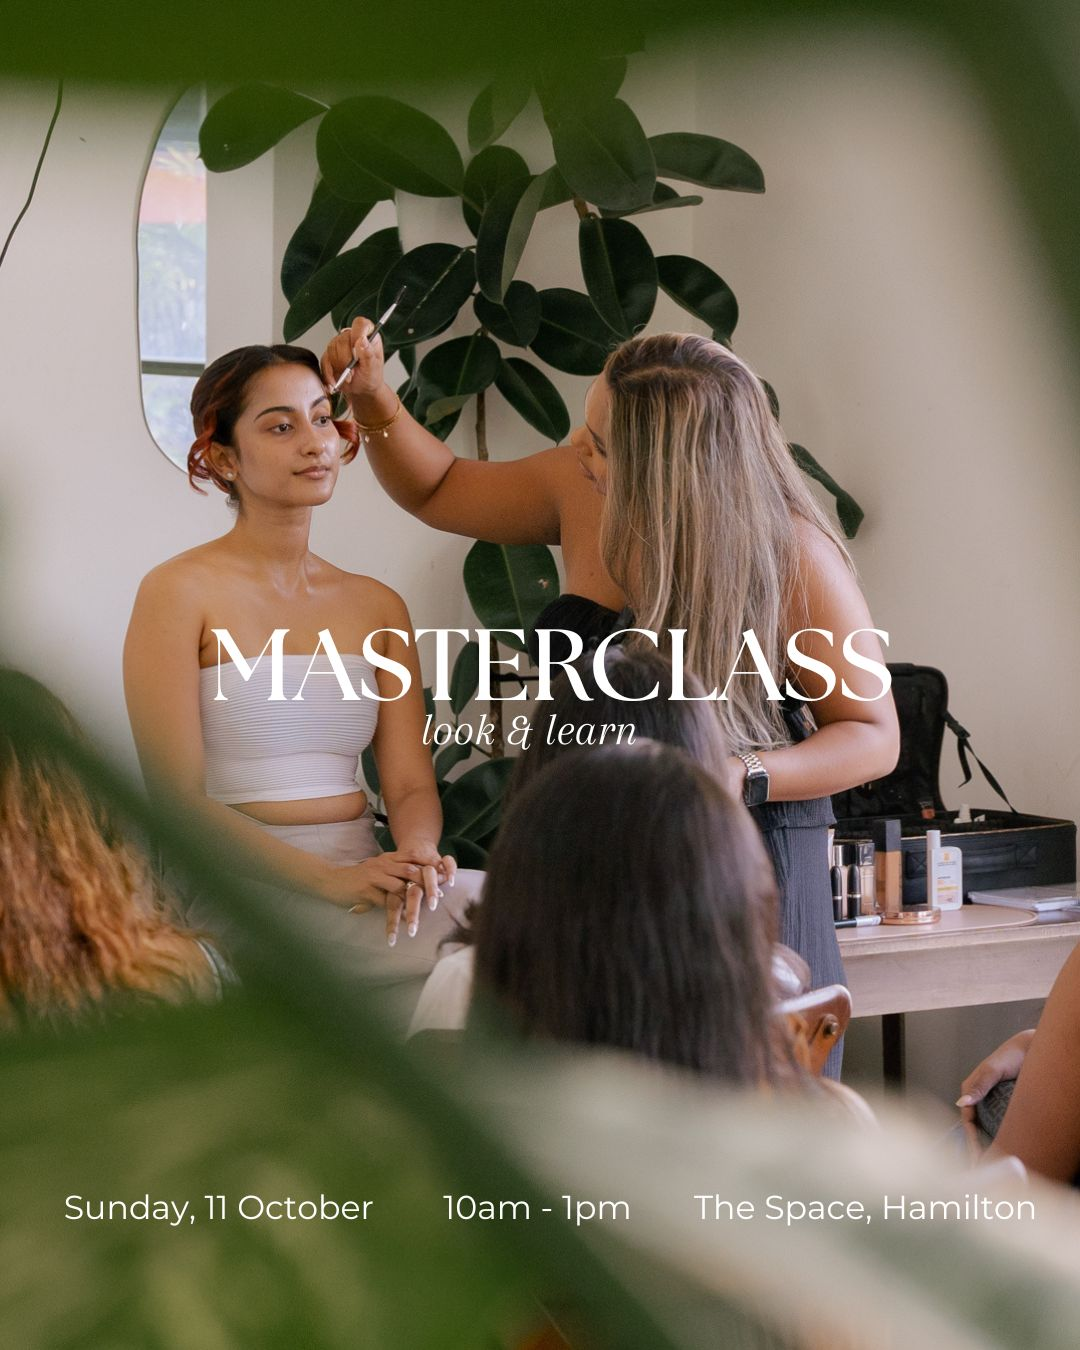
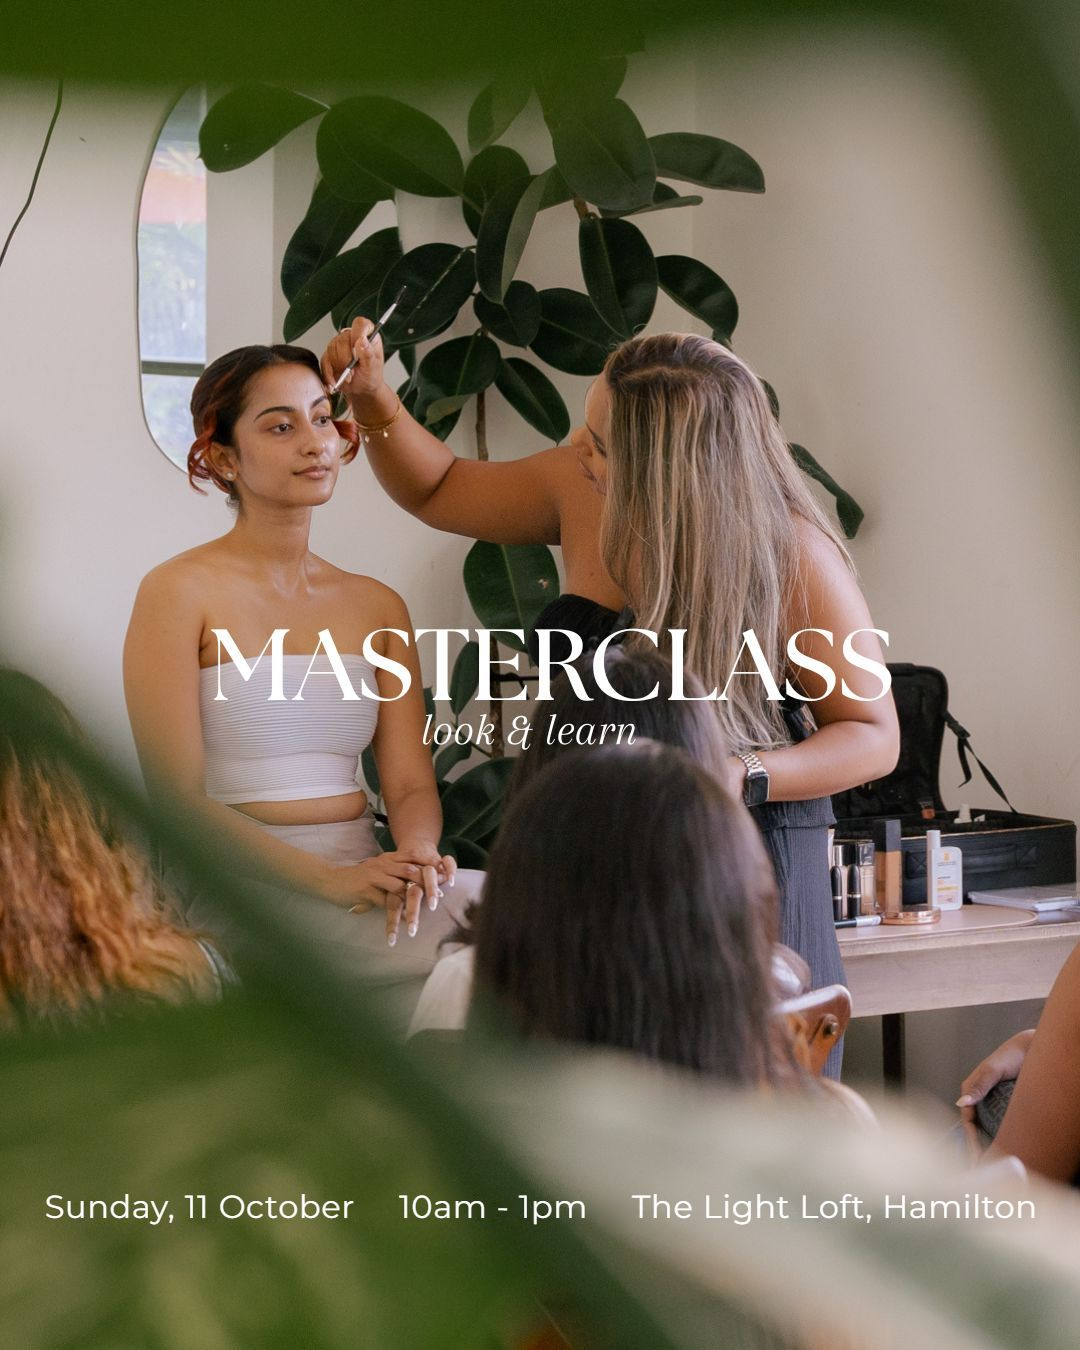
Move masterclass venue to The Light Loft, 1/592 Victoria Street, Hamilton

Changed region(s): [[0.3667, 0.8711, 0.825, 0.9022], [0.0306, 0.8711, 0.3361, 0.9022], [0.8861, 0.8711, 0.9167, 0.9022]]

diff --git a/masterclass.html b/masterclass.html
@@ -4,7 +4,7 @@
   <meta charset="UTF-8" />
   <meta name="viewport" content="width=device-width, initial-scale=1.0" />
   <title>Masterclass | Makeup by Nats</title>
-  <meta name="description" content="The Ultimate Makeup Masterclass with Makeup by Nats. Sunday 11 October 2026, 10am to 1pm at The Space, Hamilton. A full live demonstration, product breakdowns, branding guidance and a luxe goodie bag." />
+  <meta name="description" content="The Ultimate Makeup Masterclass with Makeup by Nats. Sunday 11 October 2026, 10am to 1pm at The Light Loft, 1/592 Victoria Street, Hamilton. A full live demonstration, product breakdowns, branding guidance and a luxe goodie bag." />
   <link rel="preconnect" href="https://fonts.googleapis.com" />
   <link rel="preconnect" href="https://fonts.gstatic.com" crossorigin />
   <link href="https://fonts.googleapis.com/css2?family=Cormorant+Garamond:ital,wght@0,300;0,400;0,500;0,600;1,300;1,400;1,500&family=Great+Vibes&family=Montserrat:wght@300;400;500;600&display=swap" rel="stylesheet" />
@@ -78,7 +78,7 @@
       <div class="mc-gallery reveal-left">
         <div class="swiper mc-swiper">
           <div class="swiper-wrapper">
-            <div class="swiper-slide"><img src="assets/images/Masterclass/1.jpg" alt="Masterclass: Look &amp; Learn, Sunday 11 October, The Space Hamilton" /></div>
+            <div class="swiper-slide"><img src="assets/images/Masterclass/1.jpg" alt="Masterclass: Look &amp; Learn, Sunday 11 October, The Light Loft Hamilton" /></div>
             <div class="swiper-slide"><img src="assets/images/Masterclass/2.jpg" alt="Nats applying makeup on a model at the masterclass" loading="lazy" /></div>
             <div class="swiper-slide"><img src="assets/images/Masterclass/3.jpg" alt="Attendees watching the live makeup demonstration" loading="lazy" /></div>
             <div class="swiper-slide"><img src="assets/images/Masterclass/4.jpg" alt="Close-up of eye makeup application during the demonstration" loading="lazy" /></div>
@@ -120,7 +120,7 @@
           </li>
           <li>
             <span class="lbl">Venue</span>
-            <span class="val">The Space, Hamilton</span>
+            <span class="val">The Light Loft<span class="mc-addr">1/592 Victoria Street, Hamilton</span></span>
           </li>
         </ul>
 

diff --git a/assets/css/style.css b/assets/css/style.css
@@ -1135,6 +1135,7 @@ p { font-size: 0.9rem; line-height: 1.9; color: var(--mid-gray); }
   text-transform: uppercase; color: var(--gray); font-weight: 600; padding-top: 4px;
 }
 .mc-details .val { font-size: 1rem; color: var(--black); }
+.mc-details .mc-addr { display: block; margin-top: 3px; font-size: 0.82rem; color: var(--mid-gray); }
 
 .mc-price-block { margin-bottom: 28px; }
 .mc-earlybird {
